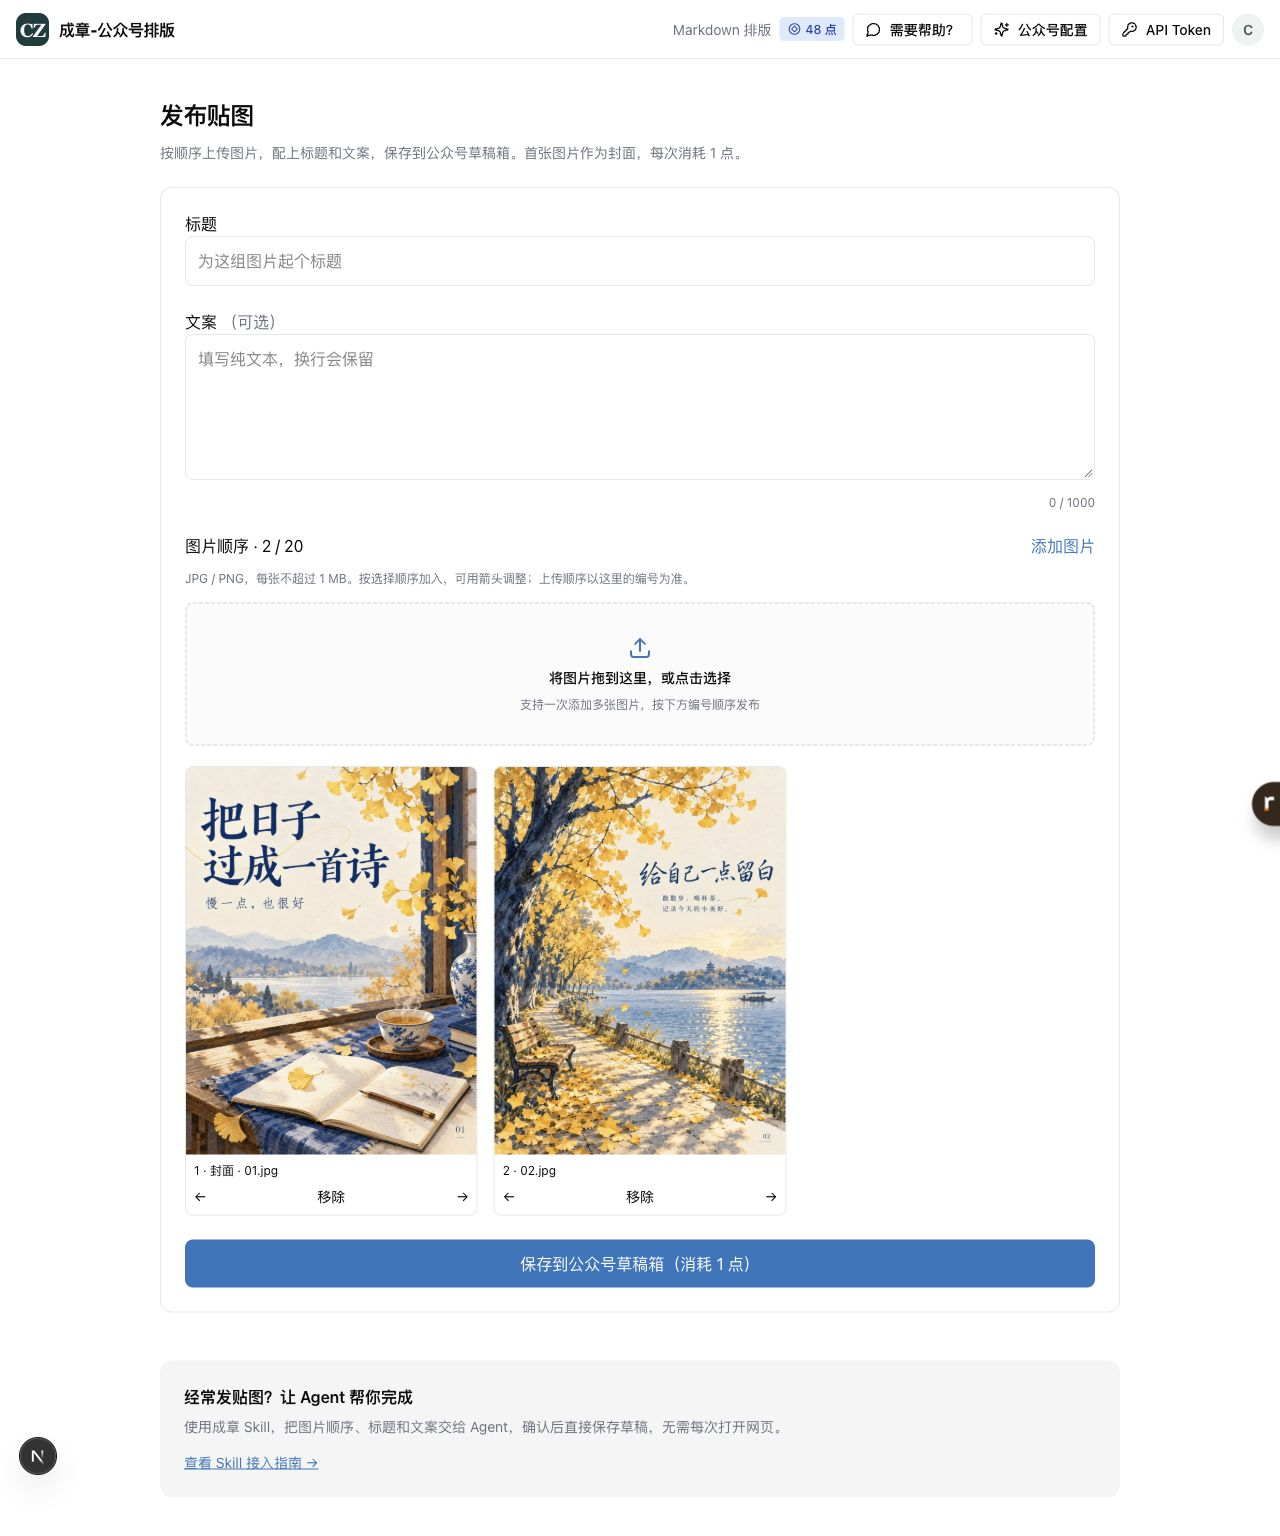
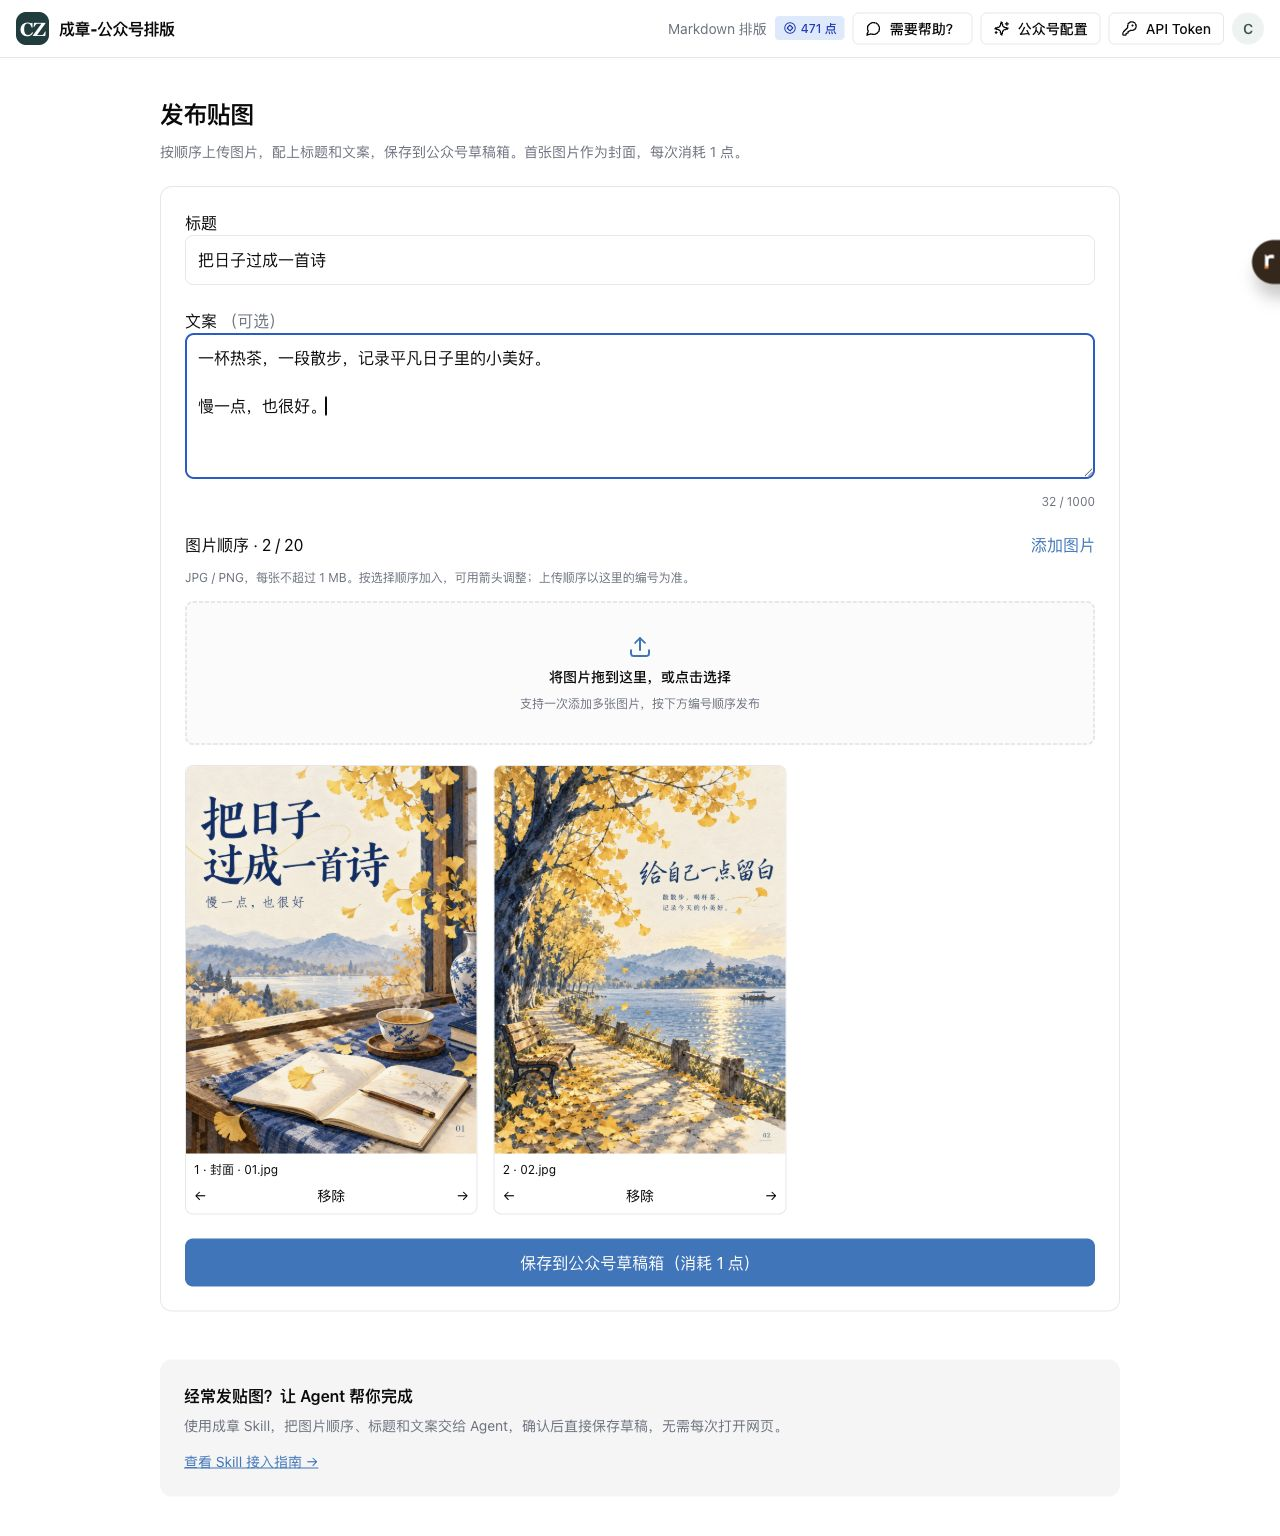
Enable production picture drafts and update live screenshots

diff --git a/chengzhang/SKILL.md b/chengzhang/SKILL.md
@@ -96,7 +96,7 @@ python3 examples/publish.py publish confirmed.json
 ## 贴图草稿（独立于 Markdown）
 
 用户要求发布一组贴图时，使用 `examples/publish_pictures.py`，不要转换成 Markdown 文章。
-复用 `examples/publish.py setup/check` 的本机连接配置。贴图需所连接服务支持 `POST /api/publish/pictures`；默认站的贴图入口当前尚未开放（2026-10-18），不要承诺可用。支持该功能的服务提供独立 `/pictures` 网页。接口不支持或返回404/405时停止并说明原因，不改用文章接口代替，也不反复提交。
+复用 `examples/publish.py setup/check` 的本机连接配置。贴图需所连接服务支持 `POST /api/publish/pictures`；正式站独立入口为 [贴图页面](https://chengzhang.page/pictures)。接口不支持或返回404/405时停止并说明原因，不改用文章接口代替，也不反复提交。
 
 1. 建立 UTF-8 JSON：`{"title":"标题","content":"纯文本文案，可换行","images":["/absolute/01.png","/absolute/02.png"]}`。
    `images` 数组就是最终顺序，第一张为封面；1–20 张 JPG/PNG，每张 ≤1 MB。标题必填，≤64 字；文案可空，≤1000 字。

diff --git a/chengzhang/SKILL_README.md b/chengzhang/SKILL_README.md
@@ -2,11 +2,11 @@
 
 ## 当前交付版本
 
-**v0.1.5 · 2026-10-18**
+**v0.1.6 · 2026-10-18**
 
 - GitHub 安装入口：`npx skills add lee-mie/chengzhang-skills --skill chengzhang`；手动完整包见 [Releases](https://github.com/lee-mie/chengzhang-skills/releases)。
 - 网页可自定义排版并保存默认模板，Agent 预览和上传时复用；个人模板权益以网站说明为准。
-- 提供从生成图片、编写标题文案到保存贴图草稿的工作流，需要所连接服务支持贴图接口；默认站贴图入口当前尚未开放（2026-10-18）。
+- 支持从生成图片、编写标题文案到保存贴图草稿的工作流；[正式站贴图页面](https://chengzhang.page/pictures) 已开放，支持多图拖入和编号调序。
 - 新增贴图草稿：准确保留图片顺序、标题和纯文本文案；使用 `examples/publish_pictures.py` 准备并提交请求。
 - 默认连接成章，支持 Mac／Windows 自动读取本机配置；首次使用由 Agent 创建空配置并协助连接。
 - 自定义封面统一使用 `cover_image`，提交前拒绝错误字段及空封面对象。
